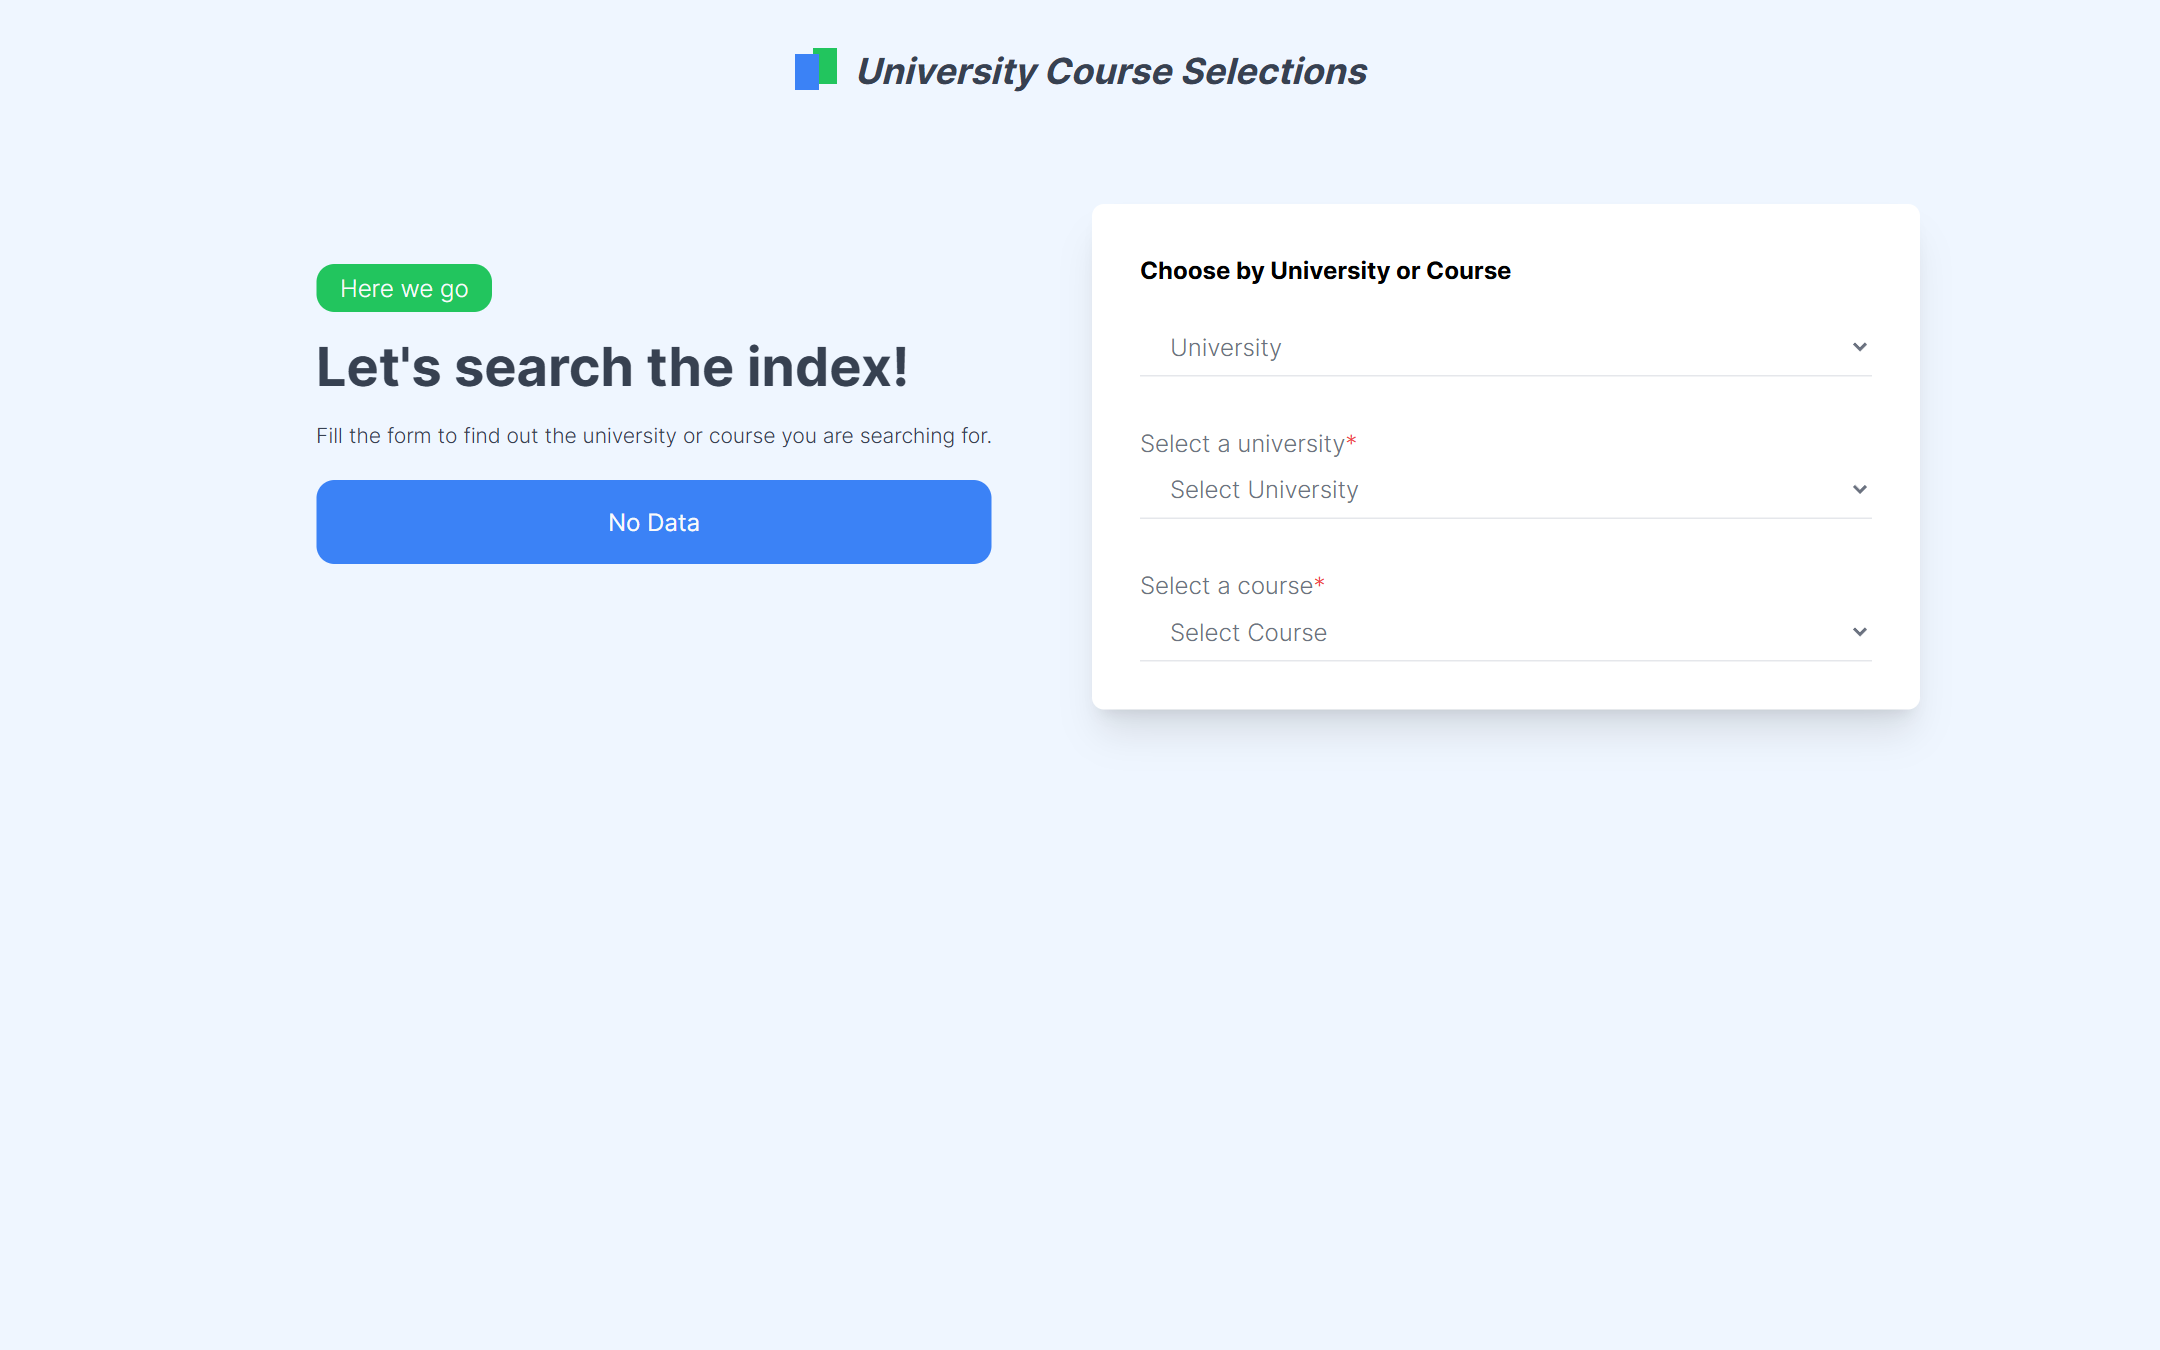
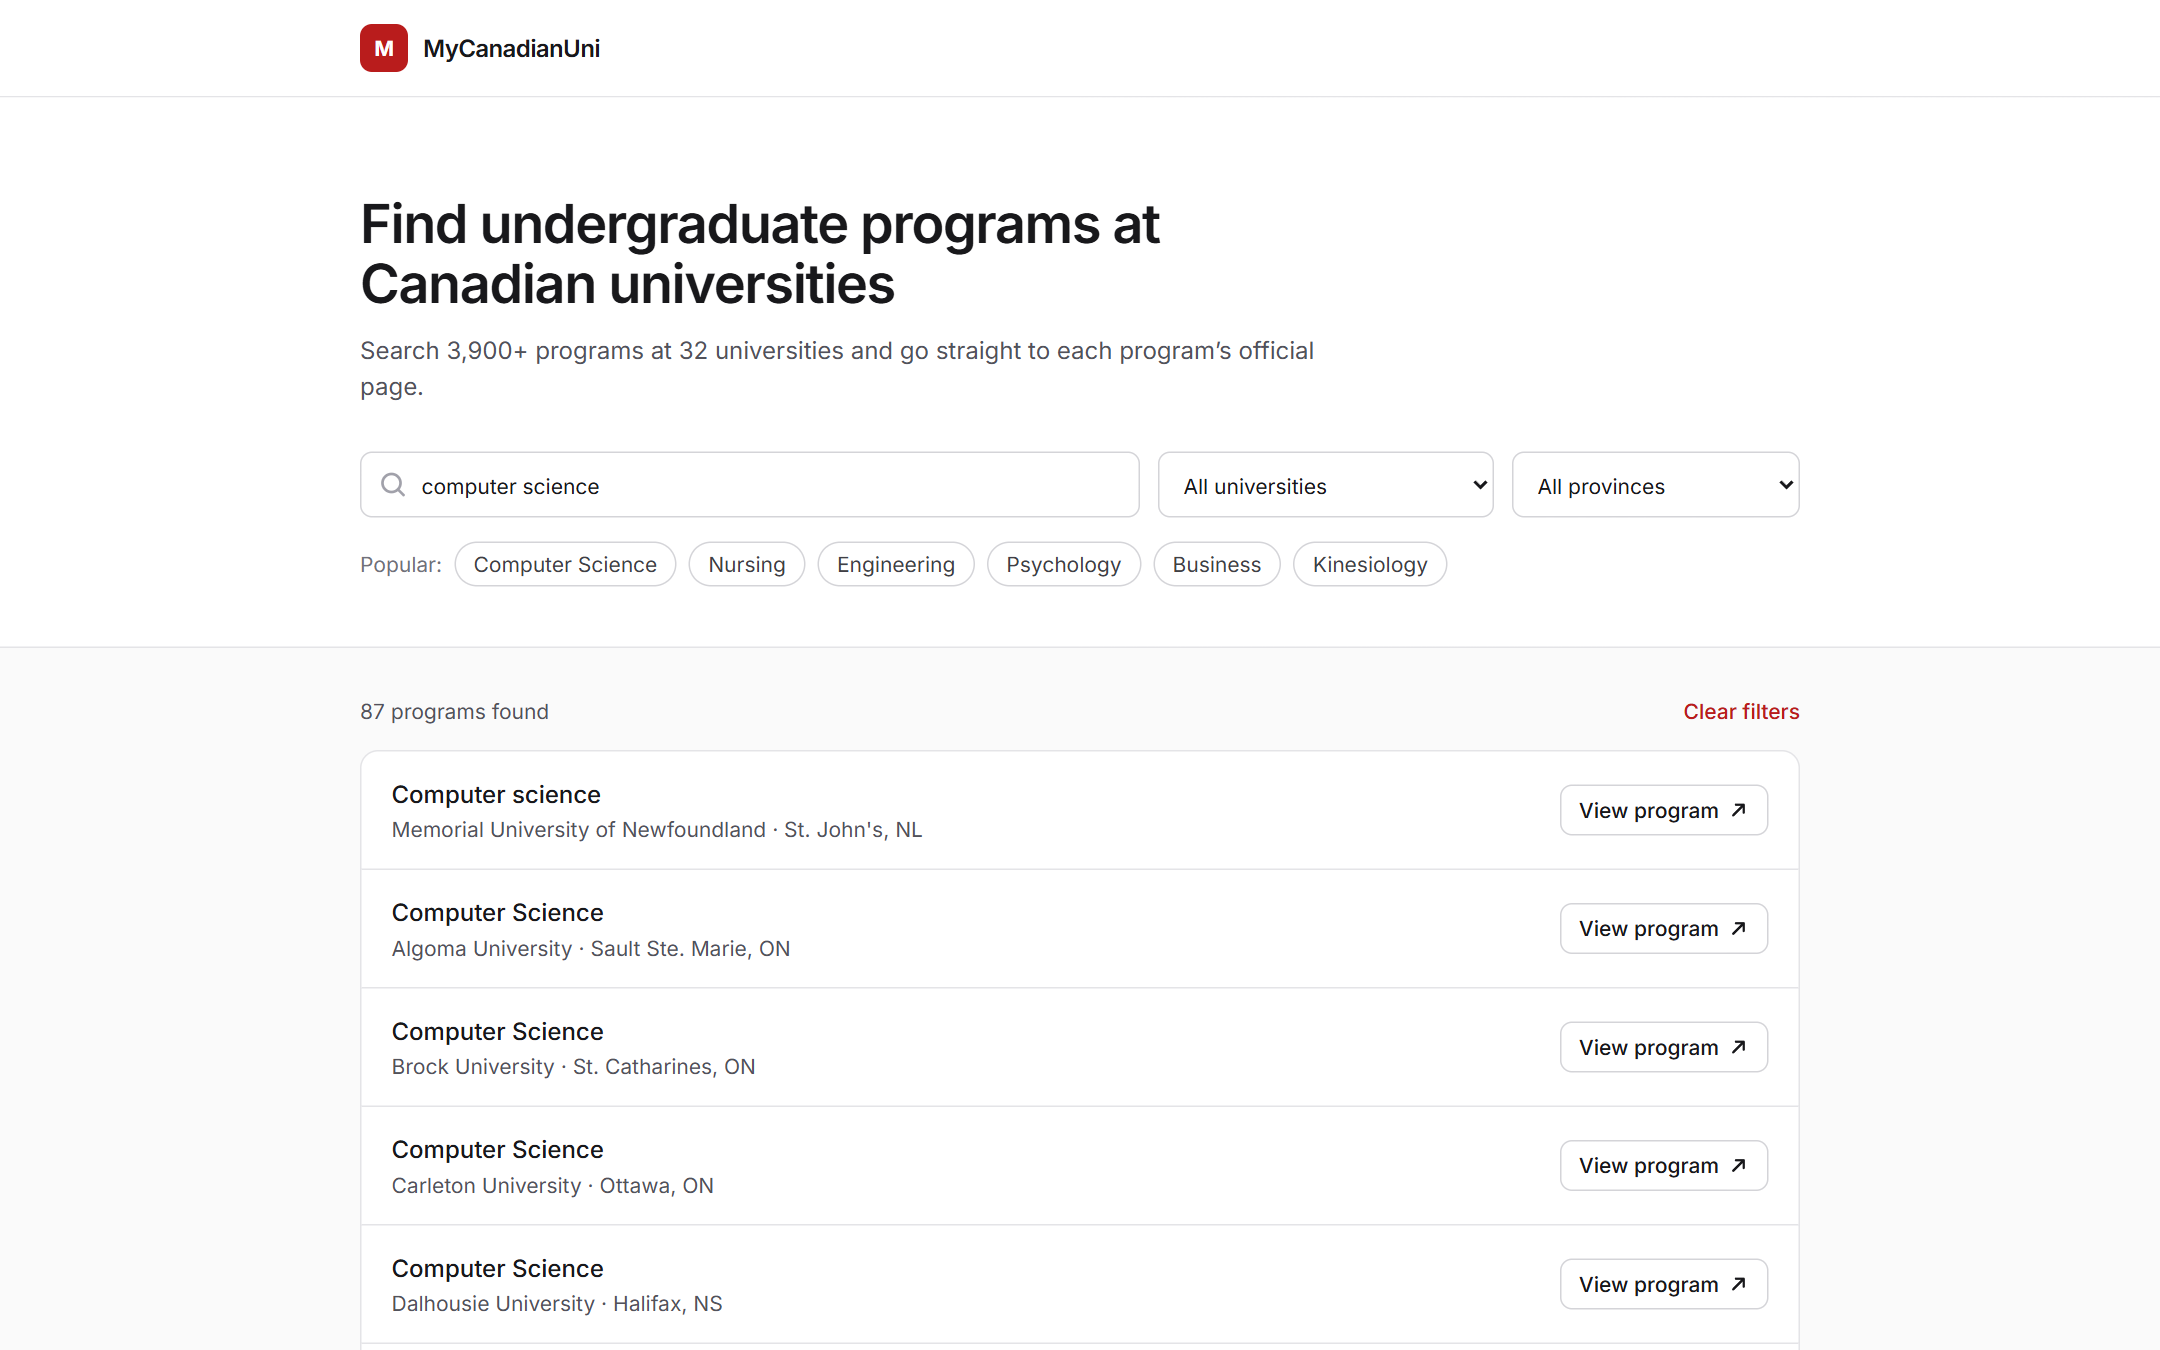
Update mycanadianuni.ca project card for the redesign
Correct the stack (Next.js, Tailwind CSS), rewrite the description,
replace the screenshot, and link the source repo (uniproject).

diff --git a/src/data.js b/src/data.js
@@ -120,13 +120,17 @@ export const featured = [
     title: 'Canadian University Program Finder',
     kicker: 'mycanadianuni.ca',
     blurb:
-      'A React platform for students exploring Canadian university programs, with dynamic filters to narrow down by university and course.',
-    highlights: ['Dynamic, dependent filters', 'Styled-components UI', 'Live on a custom domain'],
-    stack: ['React', 'JavaScript', 'styled-components'],
-    images: [{ src: '/projects/mycanadianuni.png', alt: 'mycanadianuni.ca search form for universities and courses' }],
+      'A search tool for students choosing a university. It covers 3,900+ undergraduate programs at 32 Canadian universities, with filters by university and province and a direct link to each program’s official page.',
+    highlights: [
+      'Instant keyword search with university and province filters',
+      'Shareable searches kept in the URL',
+      'Static Next.js site on a custom domain via GitHub Pages',
+    ],
+    stack: ['Next.js', 'React', 'JavaScript', 'Tailwind CSS'],
+    images: [{ src: '/projects/mycanadianuni.png', alt: 'mycanadianuni.ca showing search results for computer science programs' }],
     links: [
       { label: 'Live site', href: 'https://mycanadianuni.ca' },
-      { label: 'Repo', href: 'https://github.com/saikaja/mycanadianuni' },
+      { label: 'Repo', href: 'https://github.com/saikaja/uniproject' },
     ],
   },
 ]
